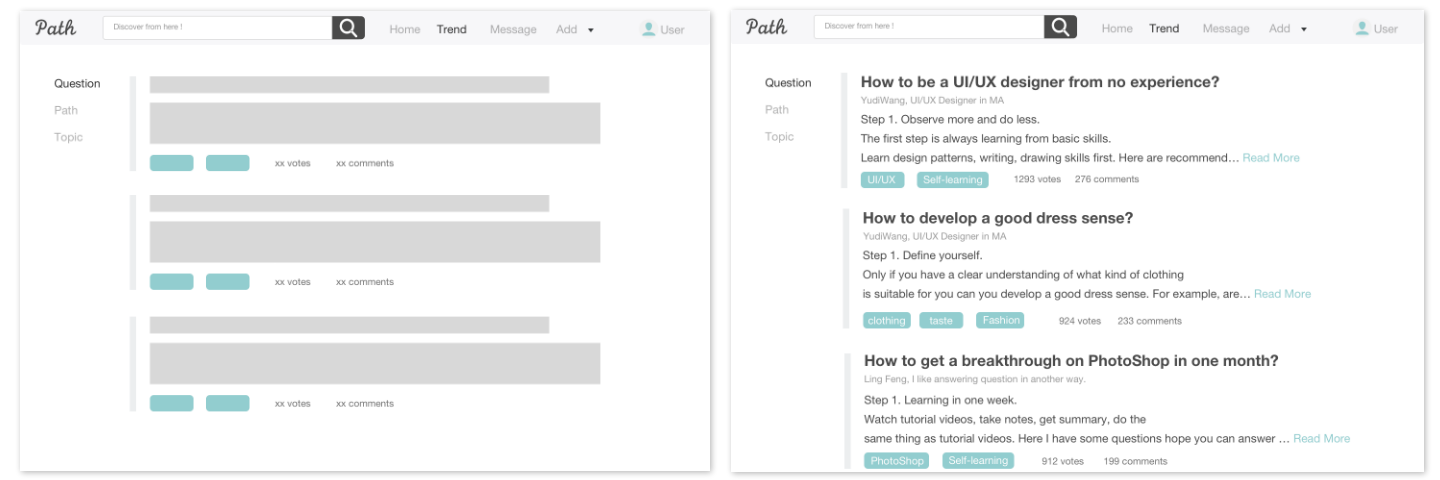
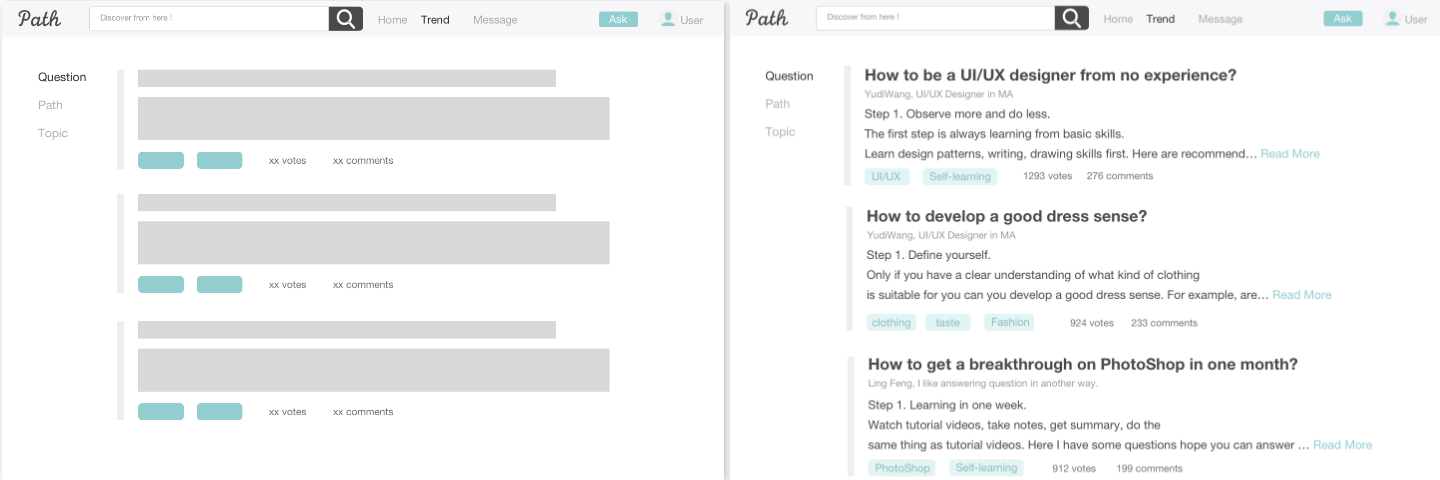
path edit

diff --git a/portfolio/path.html b/portfolio/path.html
@@ -74,8 +74,8 @@
   <p class="para">
     Nowadays we have many kinds of websites providing a platform for users to ask questions and share
     experiences such as Quora and Zhihu. But many person around me always complain that if they want
-    to search a specific learning stuff on these sites, the results are sometimes confusing, they still have no
-    idea where to start learning. So Shihao Xia (charlesxsh.github.io) and I want to make a website for users to share learning
+    to search a specific learning process on these sites, the results are sometimes confusing, they still have no
+    idea where to start learning. So Shihao Xia and I want to make a website for users to share learning
     paths step by step. In our website, users can search for the learning path they want and check out the
     results in a much clearer way.
   </p>
@@ -86,21 +86,37 @@
     provided three designs as follows:</p>
   <img class="img-responsive proto" alt="homepageproto.jpg" src="../images/home3.jpg"/>
   <br><br>
-  <p class="para">I did a preference test on 42 testers from different countries, ages, and jobs and let them choose their
-    favorite and most dislike home page design and also give me choosing reason and feedback. The result turned out to be 15
-    testers preferred the first design, 4 testers preferred the second design, and 13 testers preferred the last one. The number
-    of testers who preferred the first one and last one are too close.<br><br>
-    Also in the feedback comments they provided, I realized that those testers who didn’t like the first design mostly because
-    they thought the user-info section floating on the right was discordant; those testers who didn’t like the second design
-    mostly because there were too much information on the homepage and the main part was not straightforward enough; those
-    testers who didn’t like the third design mostly because, although the interface looked clean, the position of searching
-    bar was a little bit discordant. And another two common feedbacks were moving the postion of “DownloadApp”, “About US”
-    and “Contact Us” to the footer of the website avoiding distraction and the position of top three buttons “Ask” “Answer”
-    “Share Path” were not comfortable.<br><br>
-    Based on all the information I gained, I modified my home page with the fourth design and then created the prototype base
-    on it and built its final UI as follows: </p>
+  <p class="para">I did a preference test on 60 testers from different countries, ages, and jobs and let them choose their
+    favorite and most dislike home page design as well as give me choosing reason and feedback. The result turned out to be 29 testers preferred the first design, 4 testers preferred the second design, and 27 testers preferred the last one. The number of testers who preferred the first one and last one are too close.
+    <br><br>
+    Also in the feedback comments they provided, I realized that those testers who didn’t like the first design mostly because they thought the user-info section floating on the right was redundant; those testers who didn’t like the second design mostly because there were too much information on the homepage and the main part was not straightforward enough; those testers who didn’t like the third design mostly because, although the interface looked clean, the position of searching bar was a little bit discordant. And another two common feedbacks were the postion of “DownloadApp”, “About US” and “Contact Us” are distractive and the position of top three buttons “Ask” “Answer” “Share Path” were not comfortable.
+    <br><br>
+    Based on all the information I gained, I modified my home page with the fourth design and then created the prototype base on it and built the mockup as follows: </p>
   <br><br>
   <img style="width: 100%" class="img-responsive" alt="home.jpg" src="../images/home33.png"/>
+  <p class="para"> Once I had the mockup design, I did a testing on my 60 testers again and gained lots of useful feedback
+  from them:<br><br>
+  - Topic tags attract too more attention than the main contents.<br>
+  - Vote feature is inconspicuous.<br>
+  - ReadMore button seems discordant and a little bit mess.<br>
+  - Add button in navigation bar is confusing if don’t drop it down.<br><br>
+  Based on their feedback and my reconsideration, I designed a new version of homepage. Everything looks nice
+  to me except the vote bar. I came up with two kinds of vote bar and did an A/B testing on them as follows:</p>
+  <img style="width: 100%" class="img-responsive proto" alt="homepageproto.jpg" src="../images/home-2.png"/>
+  <p class="para">
+    The result gaining from my testers showed that, 80% of tester who are elder than 25 preferred the right
+    version (B), while the preferrence between left and right was 50% and 50% for testers younger than 25. As the
+    consideration that our website was large age range oriented, I picked the right version.
+    <br><br>
+    When I thought everything all set, I just came up with an idea that, in the current voting design, users can upvote
+    or downvote a path showing their likes or dislikes, but those “dislikes” may hurt the author who spent a long time
+    writing the path. So I remove the “downvote” button.
+  </p>
+  <img class="img-responsive proto single" alt="homepageproto.jpg" src="../images/home-draft3.png"/>
+  <p class="para">
+    The design above is my final design or the homepage and I’m going to go over other pages in the following sections.
+  </p>
+  <br>
 </section>
 <section id="testing">
   <h1 class="title">Trend</h1>
@@ -119,13 +135,13 @@
   <h1 class="title">Path</h1>
   <p class="intro para">Users can not only ask/answer questions like Quora, but also share their own learning path. Here are my
     design for adding path page and path detail page.</p>
-  <img class="img-responsive proto" alt="addpath.jpg" src="../images/add-path.png"/>
+  <img class="img-responsive proto single" alt="addpath.jpg" src="../images/add-path.png"/>
   <br><br>
   <p class="para">As for adding path page, user can type title and step detail to share paths, can click ADD to add one
     more step and click REMOVE to delete the last step.<br><br>
     The path detail looks like:</p>
   <br><br>
-  <img class="img-responsive" alt="path-detail.jpg" src="../images/path-detail.png"/>
+  <img class="img-responsive single" alt="path-detail.jpg" src="../images/path-detail.png"/>
   <br><br>
   <p class="para">
     I put the location-like icon in the front of each step and make the whole path looks more like “step by step”.

diff --git a/styles/workstyle.css b/styles/workstyle.css
@@ -196,6 +196,10 @@ body {
     font-weight: 200;
   }
 
+  .single {
+    box-shadow: 0 4px 8px 0 rgba(0, 0, 0, 0.2), 0 6px 20px 0 rgba(0, 0, 0, 0.19);
+  }
+
   .intro {
     position: relative;
     font-size: 2rem;
